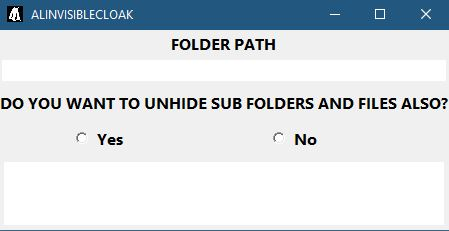
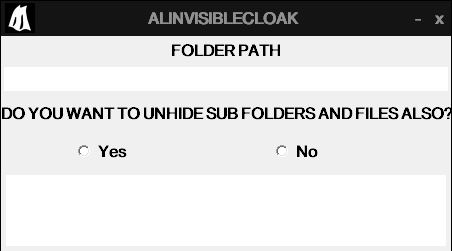
AlInvisibleCloak

Changed region(s): [[0.0, 0.0, 1.0, 1.0], [0.5924, 0.5758, 0.7171, 0.6364], [0.1559, 0.5758, 0.2806, 0.6364]]

diff --git a/AlInvisibleCloak.py b/AlInvisibleCloak.py
@@ -1,6 +1,7 @@
 from tkinter import *
 from tkinter import font
 import os
+from PIL import ImageTk, Image
 import pyttsx3
 import sys
 
@@ -9,9 +10,10 @@ cwd = os.path.dirname(os.path.realpath(__file__))
 class AlInvisibleCloak():
     def __init__(self, operation):
         root = Tk(className = " ALINVISIBLECLOAK ")
-        root.geometry("450x200+1460+815")
+        root.geometry("450x250+1460+800")
         root.resizable(0,0)
         root.iconbitmap(os.path.join(cwd+'\\UI\\icons', 'alinvisiblecloak.ico'))
+        root.overrideredirect(1)
         if operation.lower() == 'hide':
             opr = 'Attrib +h /s /d'
             response = "hidden"
@@ -20,6 +22,20 @@ class AlInvisibleCloak():
             opr = 'Attrib -h -s /s /d'
             response = "unhidden"
             root.attributes('-alpha',1)
+
+        def callback(event):
+            root.geometry("450x250+1460+800")
+
+        def showScreen(event):
+            root.deiconify()
+            root.overrideredirect(1)
+
+        def screenAppear(event):
+            root.overrideredirect(1)
+
+        def hideScreen():
+            root.overrideredirect(0)
+            root.iconify()
 
         def speak(audio):
             engine = pyttsx3.init('sapi5')
@@ -43,35 +59,59 @@ class AlInvisibleCloak():
                 text.insert(1.0, f"Folder is now {response}")
                 speak(f"Folder is now {response}")
 
-        appHighlightFont = font.Font(family='sans-serif', size=12, weight='bold')
-        textHighlightFont = font.Font(family='Segoe UI', size=12, weight='bold')
+        textHighlightFont = font.Font(family='OnePlus Sans Display', size=12)
+        appHighlightFont = font.Font(family='OnePlus Sans Display', size=12, weight='bold')
+
+        titleBar = Frame(root, bg='#141414', relief=SUNKEN, bd=0)
+        icon = Image.open(os.path.join(cwd+'\\UI\\icons', 'alinvisiblecloak.ico'))
+        icon = icon.resize((30,30), Image.ANTIALIAS)
+        icon = ImageTk.PhotoImage(icon)
+        iconLabel = Label(titleBar, image=icon)
+        iconLabel.photo = icon
+        iconLabel.config(bg='#141414')
+        iconLabel.grid(row=0,column=0,sticky="nsew")
+        titleLabel = Label(titleBar, text='ALINVISIBLECLOAK', fg='#909090', bg='#141414', font=appHighlightFont)
+        titleLabel.grid(row=0,column=1,sticky="nsew")
+        closeButton = Button(titleBar, text="x", bg='#141414', fg="#909090", borderwidth=0, command=root.destroy, font=appHighlightFont)
+        closeButton.grid(row=0,column=3,sticky="nsew")
+        minimizeButton = Button(titleBar, text="-", bg='#141414', fg="#909090", borderwidth=0, command=hideScreen, font=appHighlightFont)
+        minimizeButton.grid(row=0,column=2,sticky="nsew")
+        titleBar.grid_columnconfigure(0,weight=1)
+        titleBar.grid_columnconfigure(1,weight=50)
+        titleBar.grid_columnconfigure(2,weight=1)
+        titleBar.grid_columnconfigure(3,weight=1)
+        titleBar.pack(fill=X)
 
         folderPath = Label(root, text = "FOLDER PATH")
         folderPath.pack()
-        folderPath.config(font=textHighlightFont)
+        folderPath.config(font=appHighlightFont)
         folderPath= Entry(root, highlightthickness=3, bd=0,font=appHighlightFont)
         folderPath.pack(fill=X)
 
         ask = Label(root, text = f'DO YOU WANT TO {operation.upper()} SUB FOLDERS AND FILES ALSO?')
         ask.pack(fill=X,pady=5)
-        ask.config(font=textHighlightFont)
+        ask.config(font=appHighlightFont)
 
         confirm = Label(root)
         confirm.pack(fill=X)
-        confirm.config(font=textHighlightFont)
+        confirm.config(font=appHighlightFont)
         var = IntVar()
         radioYes = Radiobutton(confirm, text="Yes", variable=var, value=1, command=folderOperation)
-        radioYes.config(font=textHighlightFont)
+        radioYes.config(font=appHighlightFont)
         radioYes.grid(column=0,row=0,padx=70)
 
         radioNo = Radiobutton(confirm, text="No", variable=var, value=2, command=folderOperation)
-        radioNo.config(font=textHighlightFont)
+        radioNo.config(font=appHighlightFont)
         radioNo.grid(column =1,row=0,padx=70)
         
         text = Text(root, font="sans-serif",  relief=SUNKEN , highlightthickness=5, bd=0)
-        text.config(height=2, font=appHighlightFont)
+        text.config(height=2, font=textHighlightFont)
         text.pack(fill=BOTH, expand=True)
         
+        titleBar.bind("<B1-Motion>", callback)
+        titleBar.bind("<Button-3>", showScreen)
+        titleBar.bind("<Map>", screenAppear)
+
         root.mainloop()
 
 if __name__ == "__main__":
